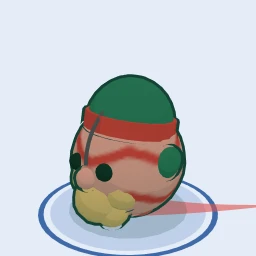
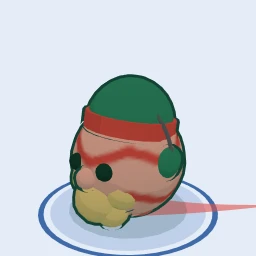
Earmuffs: the band over the head from one muff to the other, no longer front to back (a stray quarter turn); the five Rares that wear them (390, 404, 692, 694, 697) drawn again, their golden looks rewritten (the series not released), a test that the band spans ear to ear

Changed region(s): [[0.3125, 0.4375, 0.4062, 0.6562], [0.625, 0.4688, 0.6875, 0.5938]]

diff --git a/web/test/gnome.test.ts b/web/test/gnome.test.ts
@@ -15,6 +15,7 @@ import "../lib/scene/gnome-wardrobe.ts";
 import { BUDGET, MAX_REACH } from "../lib/gnomes/validate.ts";
 import type { Catalogue } from "../lib/gnomes/catalogue.ts";
 import { costOf } from "../lib/scene/gnome-cost.ts";
+import { kitPiece } from "../lib/scene/gnome-kit.ts";
 
 /** Every drawn thing under a gnome, in order: its kind, geometry and material, rounded. */
 export function fingerprint(o: THREE.Object3D) {
@@ -123,6 +124,17 @@ test("a metal gnome's parts merge into one draw, so none may glow in another's c
   };
   for (const e of catalogue.gnomes.filter((g) => g.skin.material === "metal" && g.skin.body !== undefined && g.skin.body !== g.skin.hat))
     assert.deepEqual(glows({ ...e.skin, hat: e.skin.body!, body: e.skin.hat }), glows(e.skin), `#${e.id} ${e.name}`);
+});
+
+test("earmuffs: a muff on each ear, the band over the head from one to the other (not front to back)", () => {
+  const g = new THREE.Group(), hat = new THREE.Group();
+  kitPiece(g, hat, { ...GNOMES[0], piece: "earmuffs" });
+  g.updateMatrixWorld(true);
+  const band = g.children.find((o): o is THREE.Mesh => o instanceof THREE.Mesh && (o.geometry as THREE.BufferGeometry).type === "TorusGeometry")!;
+  const box = new THREE.Box3().setFromObject(band);
+  assert.ok(box.max.x - box.min.x > 1, `the band spans ${(box.max.x - box.min.x).toFixed(2)} across, ear to ear`);
+  assert.ok(box.max.z - box.min.z < 0.2, `and ${(box.max.z - box.min.z).toFixed(2)} front to back`);
+  assert.ok(box.max.y > 0.6, "over the top of the head");
 });
 
 test("trails and holings: every kind the collection uses is made and runs to its end", () => {

diff --git a/web/lib/scene/gnome-kit.ts b/web/lib/scene/gnome-kit.ts
@@ -265,9 +265,8 @@ export function kitPiece(g: THREE.Group, hat: THREE.Group, skin: Skin) {
         muff.scale.x = 0.55;
         g.add(muff);
       }
-      const band = at(new THREE.Mesh(new THREE.TorusGeometry(0.56, 0.025, 4, 24, Math.PI), flat(0x5c6670)), 0, 0.12, 0);
-      band.rotation.y = Q;
-      g.add(band);
+      // the band over the head from one muff to the other (a half torus stands across, in x and y, as it is made)
+      g.add(at(new THREE.Mesh(new THREE.TorusGeometry(0.56, 0.025, 4, 24, Math.PI), flat(0x5c6670)), 0, 0.12, 0));
       break;
     }
     case "satchel": {
